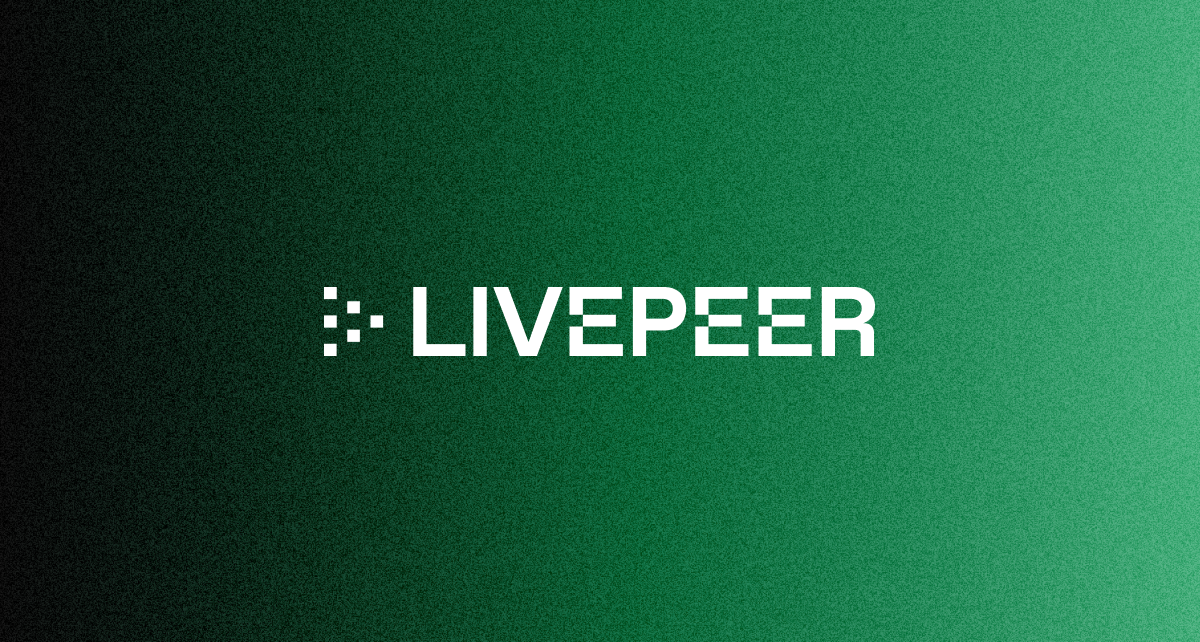
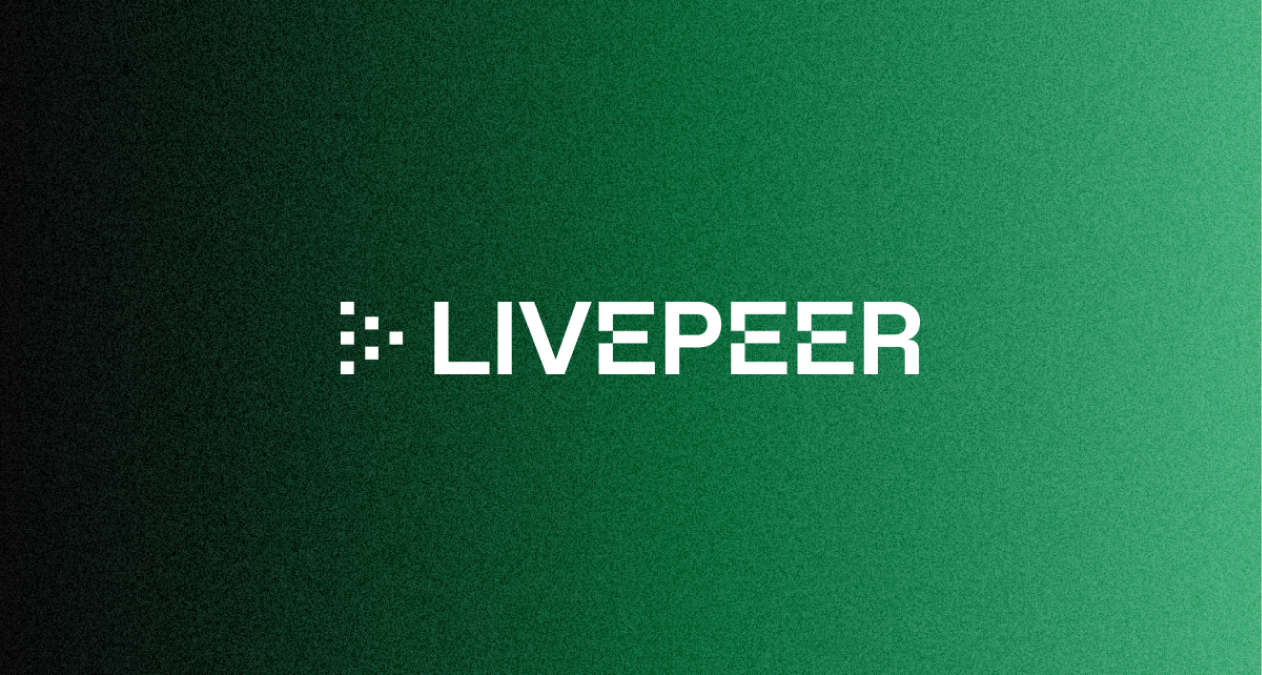
adjust og dimensions

diff --git a/components/primitives/head.tsx b/components/primitives/head.tsx
@@ -43,6 +43,8 @@ const Head = ({ meta = {} }: HeadProps) => {
       <meta property="og:url" content={meta.url} />
       <meta property="og:site_name" content={meta.siteName} />
       <meta property="og:image" content={`${meta.image}`} />
+      <meta property="og:image:width" content="1200" />
+      <meta property="og:image:height" content="642" />
 
       <meta name="twitter:card" content="summary_large_image" />
       <meta name="twitter:description" content={meta.description} />
